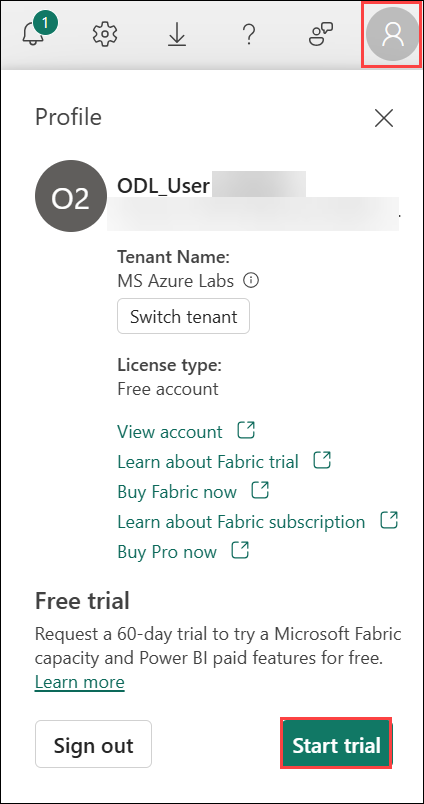
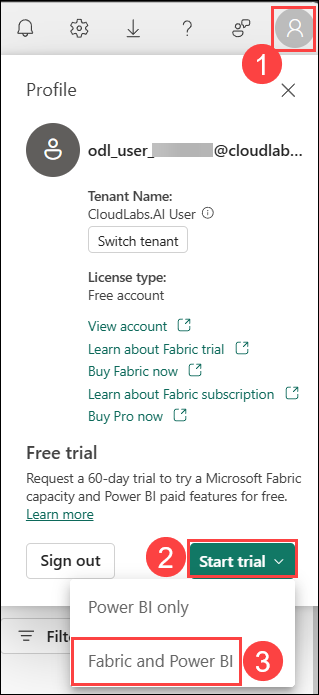
Updated lab guide

diff --git a/Instructions/Labs/05-dataflows-gen2-v2.md b/Instructions/Labs/05-dataflows-gen2-v2.md
@@ -2,17 +2,17 @@
 
 ### Estimated Duration: 120 Minutes
 
-## Scenario
+## 📘 Scenario
 
 Contoso collects sales and operational data from multiple systems, resulting in inconsistent and unstructured datasets.
 
 In this exercise, you will create a Fabric workspace and Lakehouse, use Dataflows (Gen2) to ingest and transform data, standardize datasets, and load the processed data into the Lakehouse. You will also automate the workflow by adding the Dataflow to a pipeline.
 
-## Overview
+## 📋 Overview
 
 In this exercise, you will use Dataflows (Gen2) to ingest, transform, and standardize data. You will set up data ingestion processes, apply necessary transformations, and create standardized datasets for analysis. This exercise will help you understand how to efficiently prepare and manage data using Dataflows (Gen2).
 
-## Objectives
+## 🎯 Objectives
 
 You will be able to complete the following tasks:
 
@@ -73,7 +73,7 @@ In this task, you will create a dedicated workspace in Microsoft Fabric with the
 
       ![](./Images/p2t1p8.png)
 
-1. On the **Power BI homepage**, click on the **Profile icon (1)** on the top right, and then click on **Start trial (2)**.
+1. On the **Power BI homepage**, click the **Profile icon (1)** in the top-right corner. Then click **Start trial (2)**, followed by **Fabric and Power BI (3)**.
     
    ![](./Images/E1T1S9i.png)
      
@@ -143,7 +143,7 @@ The Lakehouse will provide a unified data storage and management solution, allow
 
 1. After a few moments, your new Lakehouse will be created and should open automatically, displaying the following screen:
 
-   ![New lakehouse created.](./Images/E1T2S3.png)
+      ![New lakehouse created.](./Images/E1T2S3.png)
 
 >**Congratulations** on completing the Task! Now, it's time to validate it. Here are the steps:
 > - Hit the Validate button for the corresponding task. If you receive a success message, you have successfully validated the lab. 
@@ -173,18 +173,18 @@ In this task, you will create a Dataflow Gen2 to ingest data into a Lakehouse us
 5. Create a new data source with the following settings and click on **Next (8)** :
  
     - **Link to file**: Selected **(1)**
-    - **File path or URL**: `https://raw.githubusercontent.com/MicrosoftLearning/dp-data/main/orders.csv` **(2)**
+    - **File path or URL**: `https://experienceazure.blob.core.windows.net/templates/ingesting-data-with-ms-fabric/orders.csv` **(2)**
     - **Connection**: Create new connection **(3)**
     - **Connection Name**: Connection **(4)**
     - **Data gateway**: (none) **(5)**
     - **Authentication kind**: Anonymous **(6)**
     - **Privacy Level** : None **(7)**
 
-      ![New lakehouse.](./Images/p2t3p5-1.png)
+      ![New lakehouse.](./Images/p2t3p5-1-n.png)
 
 6. On the **Preview file data**, click on **Create**.
 
-      ![New lakehouse.](./Images/createdataupd.png)
+      ![New lakehouse.](./Images/createdataupd-n.png)
 
 6. The Power Query editor shows the data source and an initial set of query steps to format the data, as shown here:
 
@@ -232,7 +232,7 @@ In this task, you will configure a data destination for a dataflow to enable sea
       - Select the **dbo (3)**
       - Specify the new table name as **orders (4)**.
 
-        ![Data destination configuration page.](./Images/E1T4S4.png)
+        ![Data destination configuration page.](./Images/E1T4S4-n.png)
 
 1. On the **Choose destination settings** page, observe that **MonthNo (1)** is not selected in the Column mapping, and an informational message is displayed. Click **Cancel (2)**.
 
@@ -324,7 +324,7 @@ In this task, you will add a dataflow to a pipeline to streamline the data proce
 
 <validation step="6f702ff3-1450-4b7c-b44f-052a3a77f380" />
 
-## Summary
+## 🧾 Summary
 
 In this exercise, you have learned how to use Dataflows (Gen2) to ingest, transform, and standardize data within Microsoft Fabric. You successfully set up data ingestion processes, applied necessary transformations, and created standardized datasets for analysis. By completing these tasks, you gained practical experience in preparing and managing data using Dataflows (Gen2) efficiently.
 

diff --git a/Instructions/Labs/00-getting-started-v1.md b/Instructions/Labs/00-getting-started-v1.md
@@ -2,39 +2,39 @@
 
 ### Overall Estimated Duration: 4 Hours
 
-## Lab Scenario
+## 📘 Lab Scenario
 
 Contoso is modernizing its analytics platform using Microsoft Fabric to improve data ingestion, transformation, storage, and reporting.
 
 As part of the data engineering and analytics team, you will use Dataflows (Gen2), Lakehouse, and Data Warehouse capabilities in Microsoft Fabric to ingest, standardize, analyze, and visualize business data for better decision-making.
 
-## Lab Overview
+## 📋 Lab Overview
 
 In this lab, you will explore key components of Microsoft Fabric's data solution. First, you will create and use Dataflows (Gen2) to ingest, transform, and standardize data from various sources, preparing it for analysis and landing it in a Lakehouse. Next, you will analyze the processed data within a relational data warehouse in Microsoft Fabric, leveraging its SQL capabilities for querying and visualization.
 
-## Lab Objectives
+## 🎯 Lab Objectives
 
 Explore dataflows, data warehousing, and reporting in Microsoft Fabric. By the end of this lab, you will gain insights on :
 
 - **Create and use a Dataflow (Gen2) in Microsoft Fabric:** Learn to effectively ingest and transform data using Dataflows (Gen2) in Microsoft Fabric. Connect data sources, standardize the data, and efficiently load it to Lakehouse.
 - **Analyze data in a Data Warehouse:** Learn to create and manage a relational data warehouse in Microsoft Fabric. Utilize SQL to perform queries and visualizations.
 
-## Pre-requisites
+## ⚙ Pre-requisites
 
 Participants should have:
 
 - Fundamental knowledge of Microsoft Fabric
 - Basic understanding of Data Analytics
 
-## Architecture
+## 🏗 Architecture
 
 This lab begins with setting up a workspace and a Lakehouse in the Data Engineering area. Next, Dataflows (Gen2) are created to import and configure data sources. These dataflows are then integrated into a pipeline for additional processing. Then  the Data Warehouse is created, with tables and their structure defined. Following this, data is queried, and views are created for further analysis. Finally, visual queries are developed to enable data visualization and provide insights.
 
-## Architecture Diagram
+## 🖼 Architecture Diagram
 
 ![](./Images/new/arch.png)
 
-## Explanation of Components
+## 🔍 Explanation of Components
 
 The architecture for this lab involves the following key components:
 
@@ -47,7 +47,7 @@ The architecture for this lab involves the following key components:
 
 The Fabric trial includes access to most platform features required for this lab. However, Copilot, Private Links, and Trusted Workspace Access are not available in the trial capacity. For more details, refer to the official Microsoft documentation here: [Overview of the Fabric Trial](https://learn.microsoft.com/en-us/fabric/fundamentals/fabric-trial#overview-of-the-trial-capacity).
 
-## Getting Started with the Lab
+## 🚀 Getting Started with the Lab
 
 Welcome to the **Get Started with Data Warehouses and Ingesting Data with Dataflows Gen2 with Microsoft Fabric** lab. This hands-on workshop provides an opportunity to explore Microsoft Fabric capabilities for data ingestion, transformation, storage, and analytics. Follow the guided steps to work with Dataflows (Gen2), Lakehouse, and Data Warehouse components to build modern data solutions and gain practical experience with data engineering workflows.
 
@@ -99,7 +99,7 @@ After completing the task, hit the **Validate** button under the Validation tab 
  
 Now you're all set to explore the powerful world of technology. Feel free to reach out if you have any questions along the way. 
 
-## Support Contact
+## 📞 Support Contact
 
 The CloudLabs support team is available 24/7, 365 days a year, via email and live chat to ensure seamless assistance at any time. We offer dedicated support channels tailored specifically for both learners and instructors, ensuring that all your needs are promptly and efficiently addressed.
 

diff --git a/Instructions/Labs/06-data-warehouse-v2.md b/Instructions/Labs/06-data-warehouse-v2.md
@@ -2,17 +2,17 @@
 
 ### Estimated Duration: 120 Minutes
 
-## Scenario
+## 📘 Scenario
 
 After preparing the data, Contoso wants to analyze business data using a relational Data Warehouse in Microsoft Fabric.
 
 In this exercise, you will create a Data Warehouse, design tables and data models, run SQL queries, create views, and build visualizations to generate business insights and support reporting requirements.
 
-## Overview
+## 📋 Overview
 
 In this exercise, you will analyze data within a relational data warehouse using Microsoft Fabric. Utilize SQL for querying and create detailed visualizations to derive actionable insights. 
 
-## Objectives
+## 🎯 Objectives
 
 You will be able to complete the following tasks:
 
@@ -38,7 +38,7 @@ In this task, you will design and implement a data warehouse by organizing data 
 
 3. Name the Warehouse as **Data Warehouse-<inject key="Deployment ID" enableCopy="false"/> (1)** and click on **Create (2)**.
 
-   ![Screenshot of a new warehouse.](./Images/p3t1p3.png)
+   ![Screenshot of a new warehouse.](./Images/p3t1p3-n.png)
 
 ## Task 2: Create tables and insert data
 
@@ -88,13 +88,13 @@ In this task, you will create database tables by defining their structure with a
 
     ![Screenshot of a new warehouse.](./Images/p3t2p5.png)
 
-6. In the **Explorer** pane, select the **DimProduct** table and verify that the three rows have been added to the table.
+6. In the **Explorer** pane, select the **DimProduct** table, open **Data preview**, and verify that all three rows have been added successfully.
 
-     ![Screenshot of a new warehouse.](./Images/p3t2p6.png)
+     ![Screenshot of a new warehouse.](./Images/p3t2p6-n.png)
 
 7. On the **Home (1)** menu tab, use the **New SQL Query (2)** button to create a new query.
 
-1. Copy this URL `https://raw.githubusercontent.com/MicrosoftLearning/dp-data/main/create-dw.txt` and paste it in a new tab in the browser, and then copy and paste **(3)** the entire Transact-SQL code into the new query pane. Then click on **Run (4)**.
+1. Copy this URL `https://experienceazure.blob.core.windows.net/templates/ingesting-data-with-ms-fabric/create-dw.txt` and paste it in a new tab in the browser, and then copy and paste **(3)** the entire Transact-SQL code into the new query pane. Then click on **Run (4)**.
 
     ![](./Images/p3t2p7.png)
    
@@ -385,7 +385,7 @@ In this task, you will visualize your data from a single query or your data ware
 
     ![03](./Images/p3t7p12.png)
 
-## Summary
+## 🧾 Summary
 
 In this exercise, you analyzed data in a Microsoft Fabric data warehouse. You created a data warehouse, defined tables, inserted data, and built relationships between fact and dimension tables. Using SQL, you queried and aggregated data for insights. You also created a view to streamline queries and used the visual query designer for no-code data exploration. Finally, you visualized the data in a Power BI report, learning how to effectively analyze and present warehouse data for decision-making.
 
